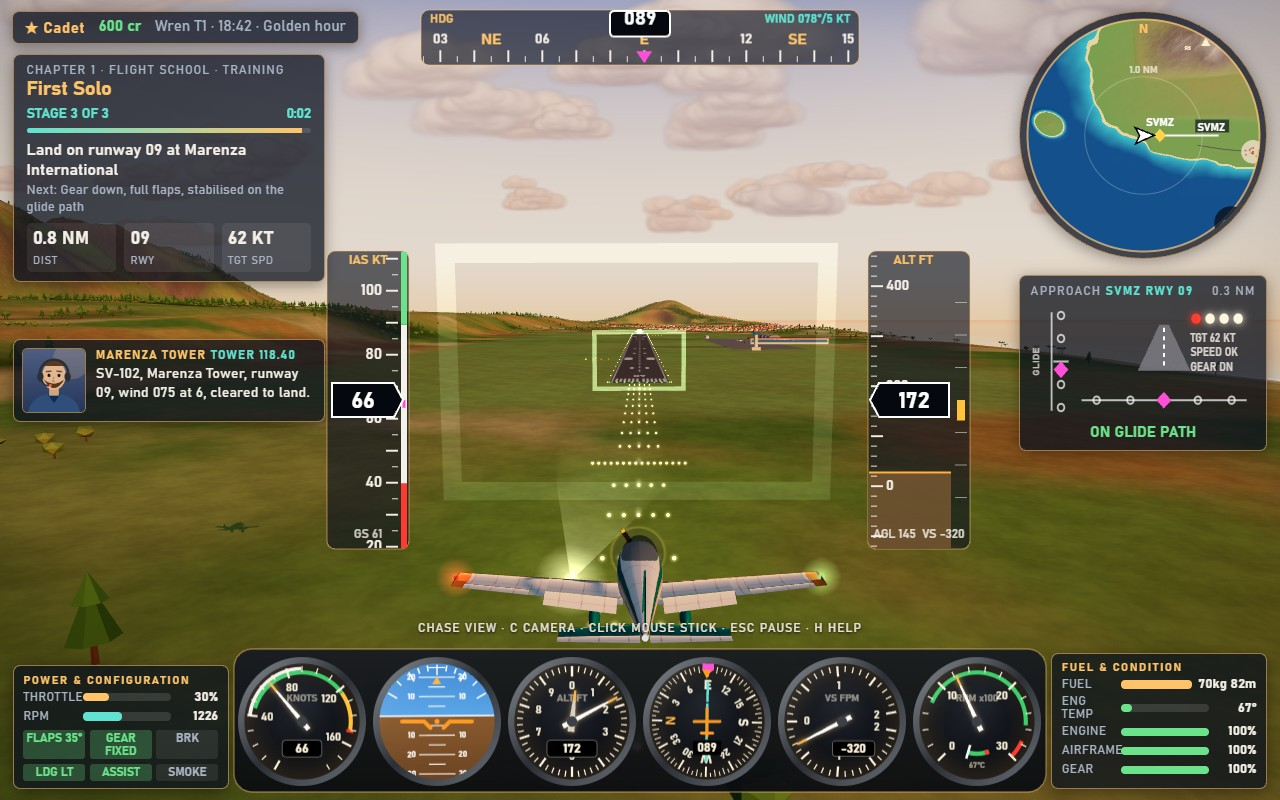
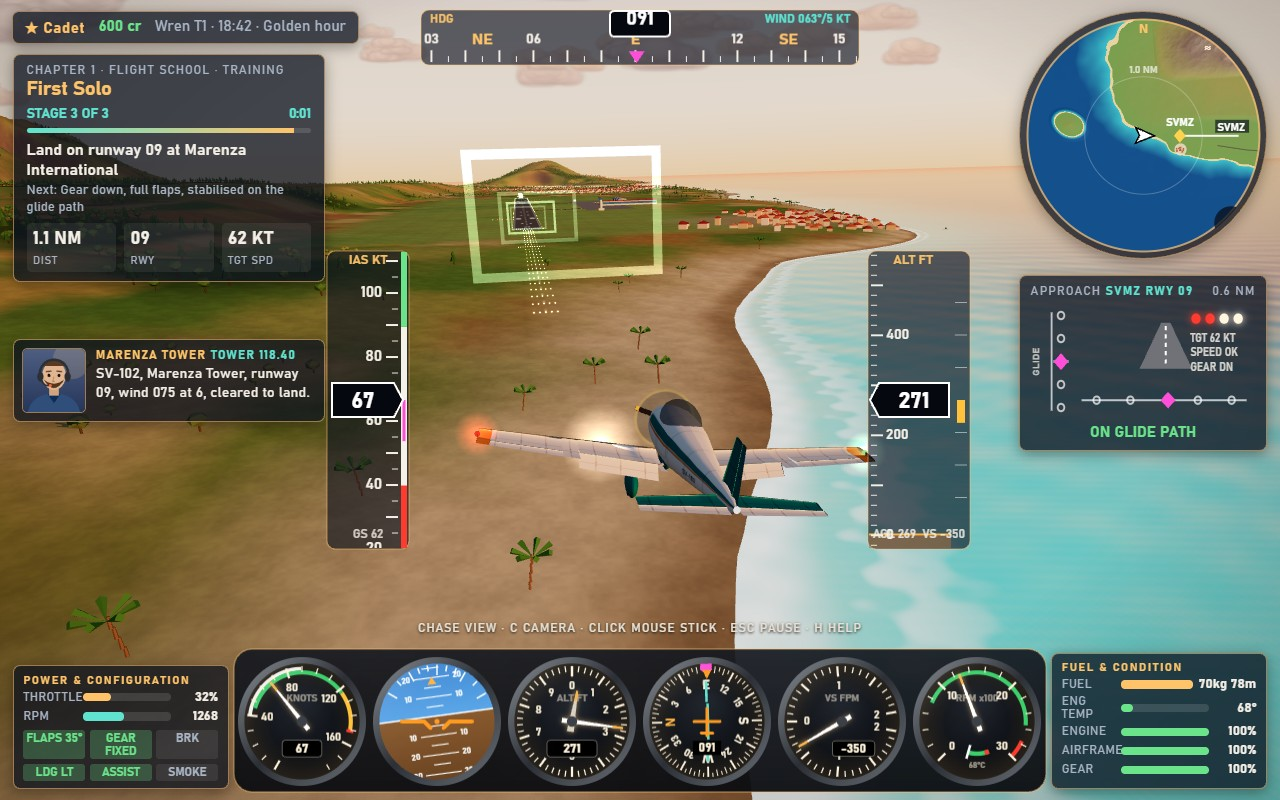
Cover re-staged: final to runway 09 off the sea in a 3/4 rear view, banked, with the beach, Marina Sabbia village and the hills ahead; no daylight landing beam

diff --git a/game/src/core/screenshotScenes.js b/game/src/core/screenshotScenes.js
@@ -26,14 +26,16 @@ export function stageScreenshot(name, game) {
     game.backdrop.setAngle(80);
     for (let i = 0; i < 240; i += 1) game.frame(STEP);
   } else if (name === 'cover') {
+    // Short final to runway 09 at Marenza International, coming in off the sea at golden hour:
+    // the beach, Porto Celeste and the Monte Aurio range ahead, seen from behind the right wing.
     game.startMission(missionById('first-solo'));
     game.runner.skipTo(2);
     const spec = session.spec;
-    session.simulation.start(spec, { ...approachPlacement(spec, 'marenza', 0, 600, { flaps: 2, offset: 0, height: 2 }), throttle: 0.3 }, { birds: false });
+    session.simulation.start(spec, { ...approachPlacement(spec, 'marenza', 0, 1180, { flaps: 2, offset: -10, height: 0 }), bank: 8, throttle: 0.32 }, { birds: false });
     session.body.landingLights = true;
-    game.controls.controls.throttle = 0.3;
-    Object.assign(game.cameras.chaseFraming, { height: 1.65, distance: 1.12, lookAhead: 120, lookUp: -3, yaw: 0 });
-    run(game, 2.6);
+    game.controls.controls.throttle = 0.32;
+    Object.assign(game.cameras.chaseFraming, { height: 1.5, distance: 1.0, lookAhead: 10, lookUp: -1.5, yaw: -0.17 });
+    run(game, 1.6);
     game.hud.radio.say('dario', 'SV-102, Marenza Tower, runway 09, wind 075 at 6, cleared to land.', { priority: true });
     game.hud.radio.hold();
     run(game, 0.4);

diff --git a/game/src/world/archipelagoMap.js b/game/src/world/archipelagoMap.js
@@ -48,6 +48,7 @@ export const PLAINS = [
 export const TOWNS = [
   { id: 'porto-celeste', name: 'Porto Celeste', island: 'marenza', x: -350, z: 3450, radius: 480, buildings: 380, flatten: 6 },
   { id: 'san-telmo', name: 'San Telmo', island: 'marenza', x: 1150, z: 3000, radius: 360, buildings: 150, flatten: 4 },
+  { id: 'marina-sabbia', name: 'Marina Sabbia', island: 'marenza', x: -3180, z: 3370, radius: 250, buildings: 110, flatten: 0 },
   { id: 'nordelle', name: 'Nordelle', island: 'marenza', x: -2000, z: -1250, radius: 380, buildings: 90, flatten: 0 },
   { id: 'ventara', name: 'Ventara', island: 'lumeno', x: 4350, z: 3950, radius: 330, buildings: 80, flatten: 0 },
   { id: 'orsa-harbour', name: 'Orsa Harbour', island: 'orsa', x: -4900, z: -2500, radius: 220, buildings: 36, flatten: 0 },

diff --git a/game/src/aircraft/aircraftParts.js b/game/src/aircraft/aircraftParts.js
@@ -307,7 +307,8 @@ export function aircraftLights({ leftTip, rightTip, tail, landing, landingDirect
       landingGlow.visible = landingOn;
       landingGlow.scale.setScalar(1.1 + lightLevel * 1.6);
       beam.visible = landingOn;
-      beamMaterial.opacity = 0.07 + lightLevel * 0.13;
+      // A beam only shows in the air once the light has gone; by day the glow at the lamp is enough.
+      beamMaterial.opacity = Math.max(0, (lightLevel - 0.65) / 0.35) * 0.2;
       spot.intensity = landingOn ? 40 + lightLevel * 260 : 0;
       red.visible = green.visible = white.visible = true;
     },
